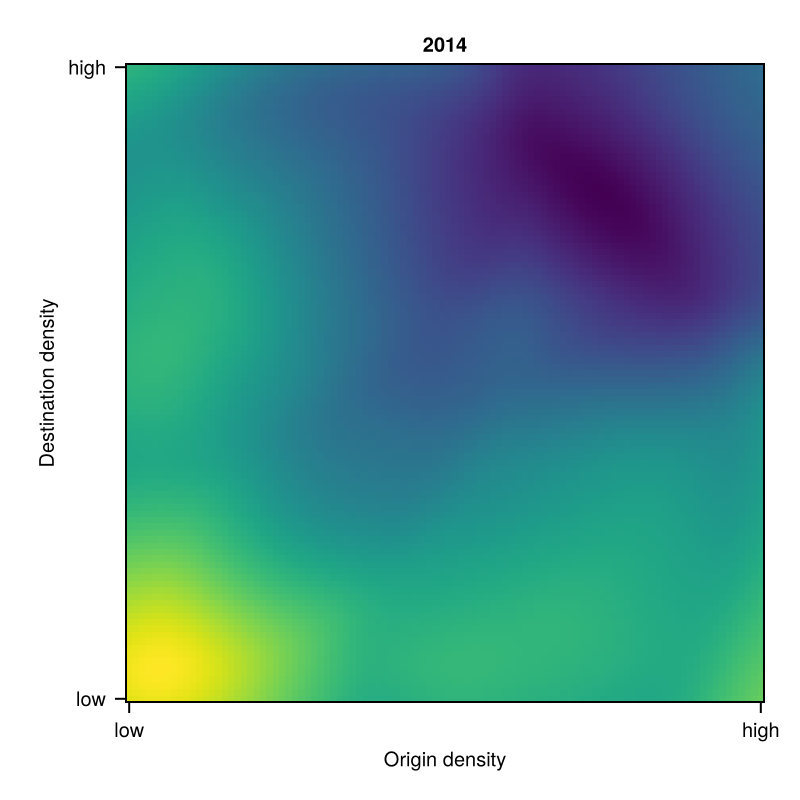
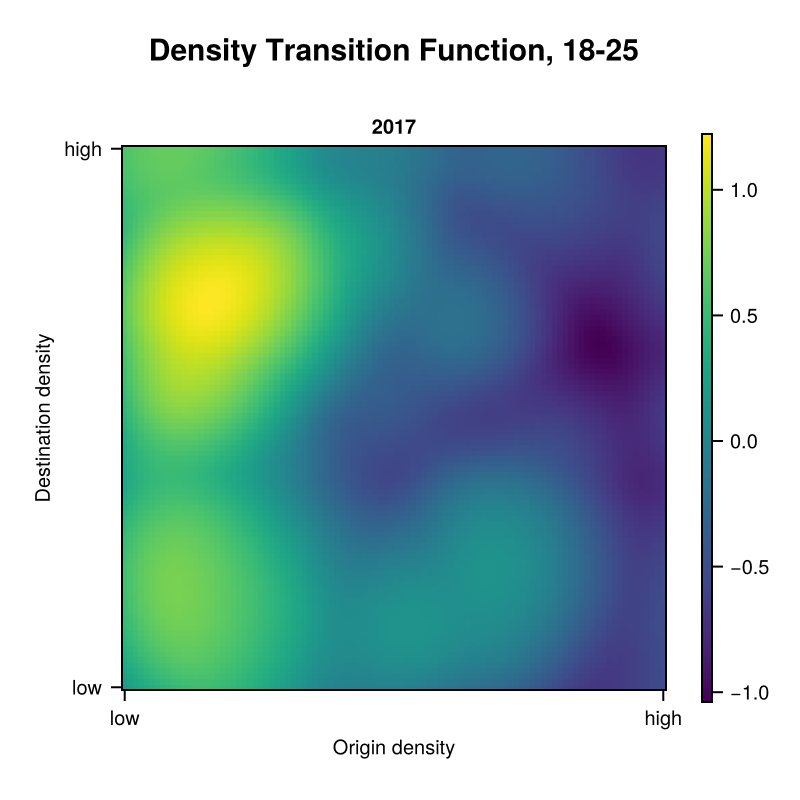
update 18-25, 2017 all rows

diff --git a/README.md b/README.md
@@ -30,12 +30,18 @@ and install all needed Julia libraries.
 $ git clone https://github.com/khoffie/MigFlow.git
 $ cd MigFlow
 $ julia --project=. -e 'using Pkg; Pkg.instantiate()'
-$ tar -xvf data/data.tar.gz -C data
 ```
 
 This will install all libraries needed in the correct version.
 
 ## Basic usage
+First extract the archive with the data. Mainly, the archive contains
+flows of the age group 18-25 in 2017. Shapefiles and additional data
+about districts is provided as well.
+
+```
+$ tar -xvf data/data.tar.gz -C data
+```
 
 ### Load libraries, functions and data
 
@@ -110,3 +116,5 @@ save("../docs/pgeo.pdf", pgeo)
 ![Density transition function](./docs/pdtf.png)
 #### Locational Asymmetries
 ![Locational Asymmetries](./docs/pgeo.png)
+#### Estimates
+![Locational Asymmetries](./docs/pcoefs.png)
